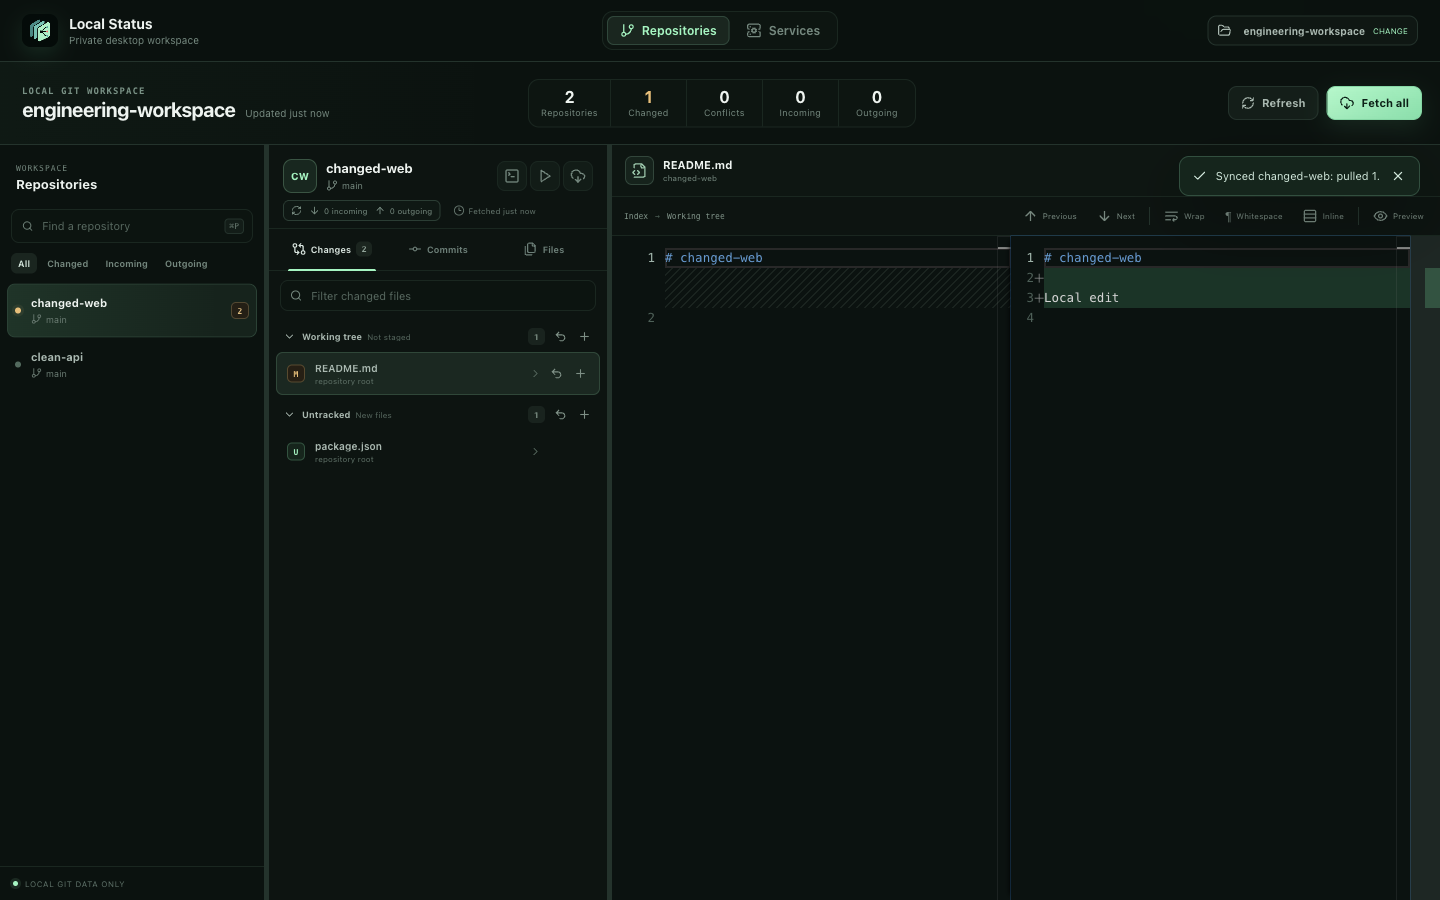
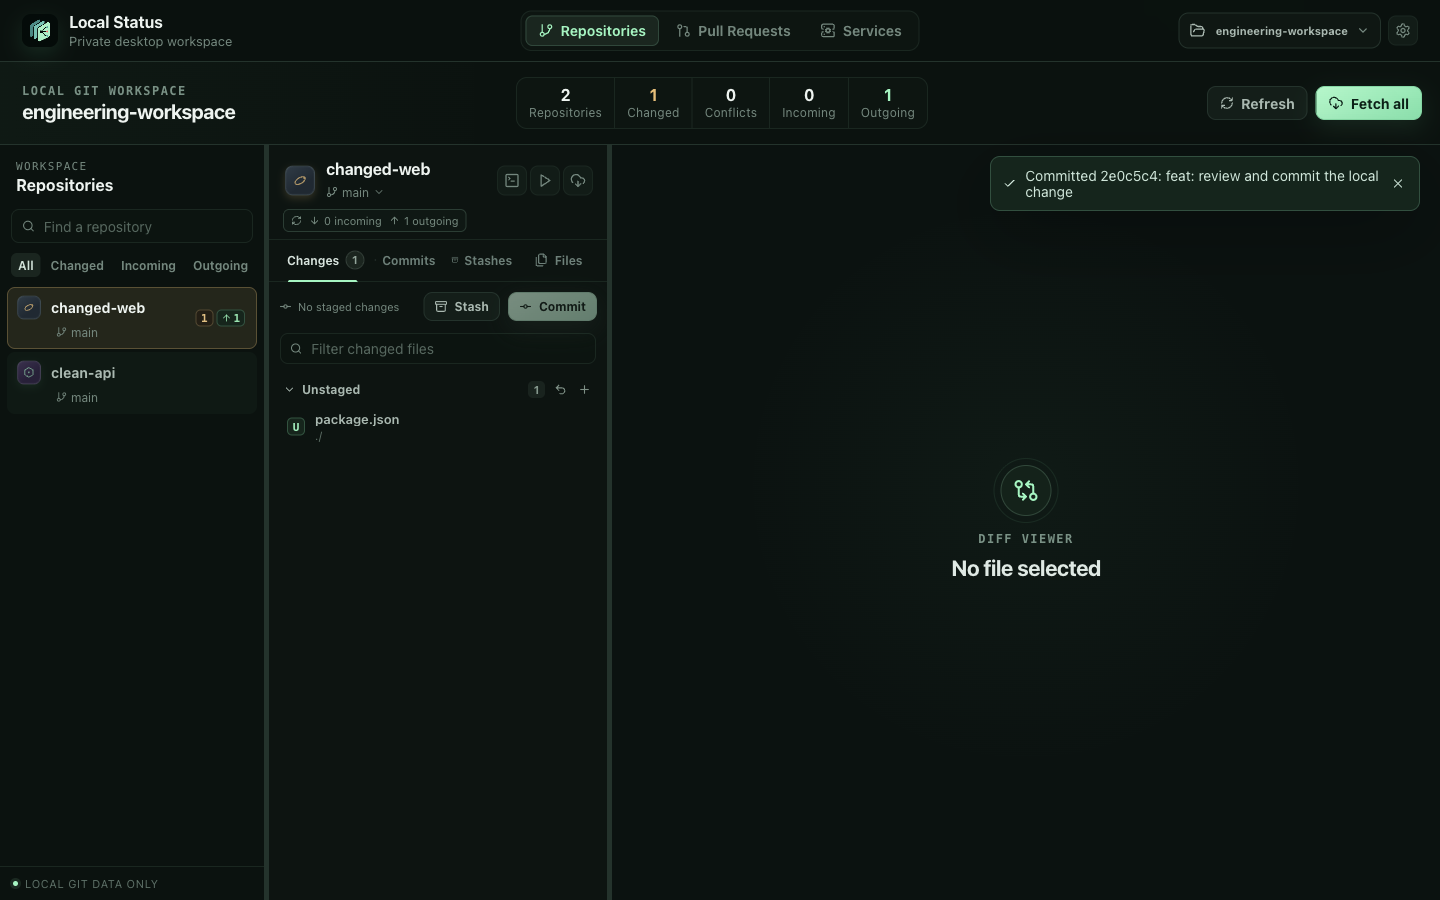
fix: polish repository workspace behavior and UI

diff --git a/tests/e2e/app.spec.ts b/tests/e2e/app.spec.ts
@@ -512,7 +512,7 @@ test("renders and persists the Glass and Neumorphic theme systems", async ({
       ".change-group__header",
       ".change-action",
     ];
-    return selectors.map((selector) => {
+    const surfaces = selectors.map((selector) => {
       const style = getComputedStyle(
         document.querySelector<HTMLElement>(selector)!,
       );
@@ -524,15 +524,33 @@ test("renders and persists the Glass and Neumorphic theme systems", async ({
         shadow: style.boxShadow,
       };
     });
+    const activeIndicator = getComputedStyle(
+      document.querySelector<HTMLElement>(".context-tabs button.is-active")!,
+      "::after",
+    );
+    return {
+      activeIndicator: {
+        background: activeIndicator.backgroundColor,
+        height: Number.parseFloat(activeIndicator.height),
+      },
+      surfaces,
+    };
   });
-  for (const surface of glassContextMaterials) {
+  for (const surface of glassContextMaterials.surfaces) {
     expect(surface.radius, surface.selector).toBeGreaterThan(0);
     expect(surface.border, surface.selector).toBeGreaterThan(0);
-    expect(surface.background, surface.selector).not.toBe("rgba(0, 0, 0, 0)");
+    if (surface.selector !== ".context-tabs button.is-active") {
+      expect(surface.background, surface.selector).not.toBe("rgba(0, 0, 0, 0)");
+    }
   }
+  expect(glassContextMaterials.activeIndicator.height).toBeGreaterThanOrEqual(2);
+  expect(glassContextMaterials.activeIndicator.background).not.toBe(
+    "rgba(0, 0, 0, 0)",
+  );
   expect(
-    glassContextMaterials.find(({ selector }) => selector === ".context-tabs")
-      ?.shadow,
+    glassContextMaterials.surfaces.find(
+      ({ selector }) => selector === ".context-tabs",
+    )?.shadow,
   ).toContain("inset");
   await window.screenshot({
     path: testInfo.outputPath("glass-workspace.png"),
@@ -633,23 +651,25 @@ test("renders and persists the Glass and Neumorphic theme systems", async ({
   const neumorphicContextMaterials = await window.evaluate(() => {
     const style = (selector: string) =>
       getComputedStyle(document.querySelector<HTMLElement>(selector)!);
+    const activeIndicator = getComputedStyle(
+      document.querySelector<HTMLElement>(".context-tabs button.is-active")!,
+      "::after",
+    );
     return {
       headerShadow: style(".repository-header").boxShadow,
       tabsShadow: style(".context-tabs").boxShadow,
-      activeTabShadow: style(".context-tabs button.is-active").boxShadow,
       contentShadow: style(".context-content").boxShadow,
       groupShadow: style(".change-group__header").boxShadow,
       actionShadow: style(".change-action").boxShadow,
-      activeTabBorder: style(".context-tabs button.is-active").borderTopColor,
+      activeIndicatorBackground: activeIndicator.backgroundColor,
     };
   });
   expect(neumorphicContextMaterials.headerShadow).not.toBe("none");
   expect(neumorphicContextMaterials.tabsShadow).toContain("inset");
-  expect(neumorphicContextMaterials.activeTabShadow).toContain("inset");
   expect(neumorphicContextMaterials.contentShadow).toContain("inset");
   expect(neumorphicContextMaterials.groupShadow).not.toBe("none");
   expect(neumorphicContextMaterials.actionShadow).not.toBe("none");
-  expect(neumorphicContextMaterials.activeTabBorder).not.toBe(
+  expect(neumorphicContextMaterials.activeIndicatorBackground).not.toBe(
     "rgba(0, 0, 0, 0)",
   );
   await window.screenshot({

diff --git a/src/theme-styles/materials.css b/src/theme-styles/materials.css
@@ -1318,6 +1318,11 @@
   filter: saturate(65%);
 }
 
+:root[data-material="liquid-glass"] .branch-picker__list button:disabled {
+  opacity: 1;
+  filter: none;
+}
+
 /*
  * Liquid Glass segmented controls are one optical group. Their child buttons
  * use tint only, which avoids glass-on-glass and keeps selection geometry calm.
@@ -1352,8 +1357,11 @@
 :root[data-material="liquid-glass"] .filter-strip button {
   min-width: 0;
   flex: 1 1 0;
-  padding-right: 2px;
-  padding-left: 2px;
+  padding-right: 3px;
+  padding-left: 3px;
+  font-size: 11px;
+  letter-spacing: -0.01em;
+  white-space: nowrap;
 }
 
 :root[data-material="liquid-glass"] .context-tabs button,
@@ -1592,4 +1600,64 @@
   color: var(--text);
   background: var(--liquid-content);
   backdrop-filter: none;
+}
+
+/*
+ * Repository tabs stay visually quiet inside their shared container. A small
+ * underline carries selection so hover and active states do not become large,
+ * competing pills.
+ */
+
+:root:is([data-material="glass"], [data-material="neumorphic"], [data-material="liquid-glass"])
+  .context-tabs
+  button,
+:root:is([data-material="glass"], [data-material="neumorphic"], [data-material="liquid-glass"])
+  .context-tabs
+  button:hover,
+:root:is([data-material="glass"], [data-material="neumorphic"], [data-material="liquid-glass"])
+  .context-tabs
+  button.is-active {
+  border-color: transparent;
+  background: transparent;
+  box-shadow: none;
+}
+
+:root:is([data-material="glass"], [data-material="neumorphic"], [data-material="liquid-glass"])
+  .context-tabs
+  button:hover {
+  color: var(--text);
+}
+
+:root:is([data-material="glass"], [data-material="neumorphic"], [data-material="liquid-glass"])
+  .context-tabs
+  button.is-active {
+  color: var(--green);
+}
+
+:root:is([data-material="glass"], [data-material="neumorphic"], [data-material="liquid-glass"])
+  .context-tabs
+  button::after {
+  right: 22%;
+  bottom: -1px;
+  left: 22%;
+  display: block;
+  height: 2px;
+  background: transparent;
+}
+
+:root:is([data-material="glass"], [data-material="neumorphic"], [data-material="liquid-glass"])
+  .context-tabs
+  button.is-active::after {
+  background: var(--green);
+  box-shadow: 0 0 8px color-mix(in srgb, var(--green) 32%, transparent);
+}
+
+:root:is([data-material="glass"], [data-material="neumorphic"], [data-material="liquid-glass"])
+  .context-tabs
+  button
+  > span {
+  border: 0;
+  color: currentColor;
+  background: color-mix(in srgb, currentColor 9%, transparent);
+  box-shadow: none;
 }

diff --git a/src/components/ServicesView.tsx b/src/components/ServicesView.tsx
@@ -326,20 +326,12 @@ export function ServicesView({
       )}
 
       <section className="service-layout">
-        <aside className="session-panel">
+        <aside className={`session-panel${sessions.length ? "" : " is-empty"}`}>
           <div className="session-panel__header">
             <div>
               <span className="panel-kicker">Managed by Local Status</span>
               <strong>Sessions</strong>
             </div>
-            <button
-              className="icon-button"
-              type="button"
-              title="Refresh listeners"
-              onClick={() => void refreshListeners()}
-            >
-              <RefreshCw size={14} />
-            </button>
           </div>
           <div className="session-list">
             {grouped.map(([repositoryId, entries]) => (
@@ -364,7 +356,7 @@ export function ServicesView({
               </div>
             ))}
             {!sessions.length && (
-              <div className="service-empty">
+              <div className="service-empty service-empty--sessions">
                 <SquareTerminal size={23} />
                 <strong>No terminal sessions</strong>
                 <span>Start a shell or package script above.</span>
@@ -505,12 +497,21 @@ export function ServicesView({
               <strong>System listeners</strong>
               <span>Read-only macOS snapshot</span>
             </div>
+            <button
+              className="icon-button"
+              type="button"
+              aria-label="Refresh system listeners"
+              title="Refresh system listeners"
+              onClick={() => void refreshListeners()}
+            >
+              <RefreshCw size={14} />
+            </button>
           </header>
           <div>
             {listeners.map((listener) => (
               <div
                 className="system-listener"
-                key={`${listener.pid}:${listener.address}`}
+                key={`${listener.process}:${listener.pid}:${listener.port}`}
               >
                 <span>
                   <strong>{listener.process}</strong>

diff --git a/src/components/RepositoryWorkspace.tsx b/src/components/RepositoryWorkspace.tsx
@@ -14,7 +14,6 @@ import {
   File,
   FileCode2,
   FileQuestion,
-  Files,
   GitCommitHorizontal,
   GitBranch,
   GitCompareArrows,
@@ -3017,21 +3016,25 @@ export function RepositoryWorkspace({
               <div className="context-tabs" role="tablist">
                 {(
                   [
-                    ["changes", GitCompareArrows, selectedRepository.summary.files],
-                    ["commits", GitCommitHorizontal, null],
-                    ["stashes", Archive, stashes.length || null],
-                    ["files", Files, null],
+                    ["changes", selectedRepository.summary.files],
+                    ["commits", null],
+                    ["stashes", stashes.length || null],
+                    ["files", null],
                   ] as const
-                ).map(([value, Icon, count]) => (
+                ).map(([value, count]) => (
                   <button
                     type="button"
                     role="tab"
                     aria-selected={tab === value}
-                    className={tab === value ? "is-active" : ""}
+                    className={[
+                      tab === value ? "is-active" : "",
+                      count !== null ? "has-count" : "",
+                    ]
+                      .filter(Boolean)
+                      .join(" ")}
                     key={value}
                     onClick={() => selectTab(value)}
                   >
-                    <Icon size={14} />
                     {value[0].toUpperCase() + value.slice(1)}
                     {count !== null && <span>{count}</span>}
                   </button>

diff --git a/src/styles.css b/src/styles.css
@@ -908,7 +908,8 @@ body.is-resizing {
   flex: 1;
   align-items: center;
   justify-content: center;
-  gap: 5px;
+  gap: 6px;
+  padding: 0 8px;
   border: 0;
   color: #688078;
   background: transparent;
@@ -938,14 +939,21 @@ body.is-resizing {
 }
 
 .context-tabs button > span {
-  display: grid;
-  min-width: 16px;
+  display: inline-flex;
+  min-width: 15px;
   height: 15px;
-  place-items: center;
-  border-radius: 5px;
+  flex: 0 0 auto;
+  align-items: center;
+  justify-content: center;
+  padding: 0 3px;
+  border: 0;
+  border-radius: 999px;
   color: #8ea59a;
-  background: #18251f;
-  font-size: var(--font-caption);
+  background: color-mix(in srgb, currentColor 9%, transparent);
+  font-size: 10px;
+  font-weight: 750;
+  font-variant-numeric: tabular-nums;
+  line-height: 1;
 }
 
 .commit-toolbar {
@@ -4742,6 +4750,11 @@ button.workspace-menu__item:focus-visible {
 
 .listener-sidebar > header {
   justify-content: flex-start;
+}
+
+.listener-sidebar > header > button {
+  flex: 0 0 auto;
+  margin-left: auto;
 }
 
 .listener-sidebar > header svg {

diff --git a/src/theme-styles/layouts.css b/src/theme-styles/layouts.css
@@ -339,6 +339,17 @@
   }
 
   :root:is([data-layout="floating"], [data-layout="sculpted"], [data-layout="immersive"])
+    .service-layout:has(.session-panel.is-empty) {
+    grid-template-rows: auto minmax(0, 1fr);
+  }
+
+  :root:is([data-layout="floating"], [data-layout="sculpted"], [data-layout="immersive"])
+    .session-panel.is-empty
+    .session-list {
+    display: none;
+  }
+
+  :root:is([data-layout="floating"], [data-layout="sculpted"], [data-layout="immersive"])
     .services-toolbar {
     padding: 11px 12px;
   }
